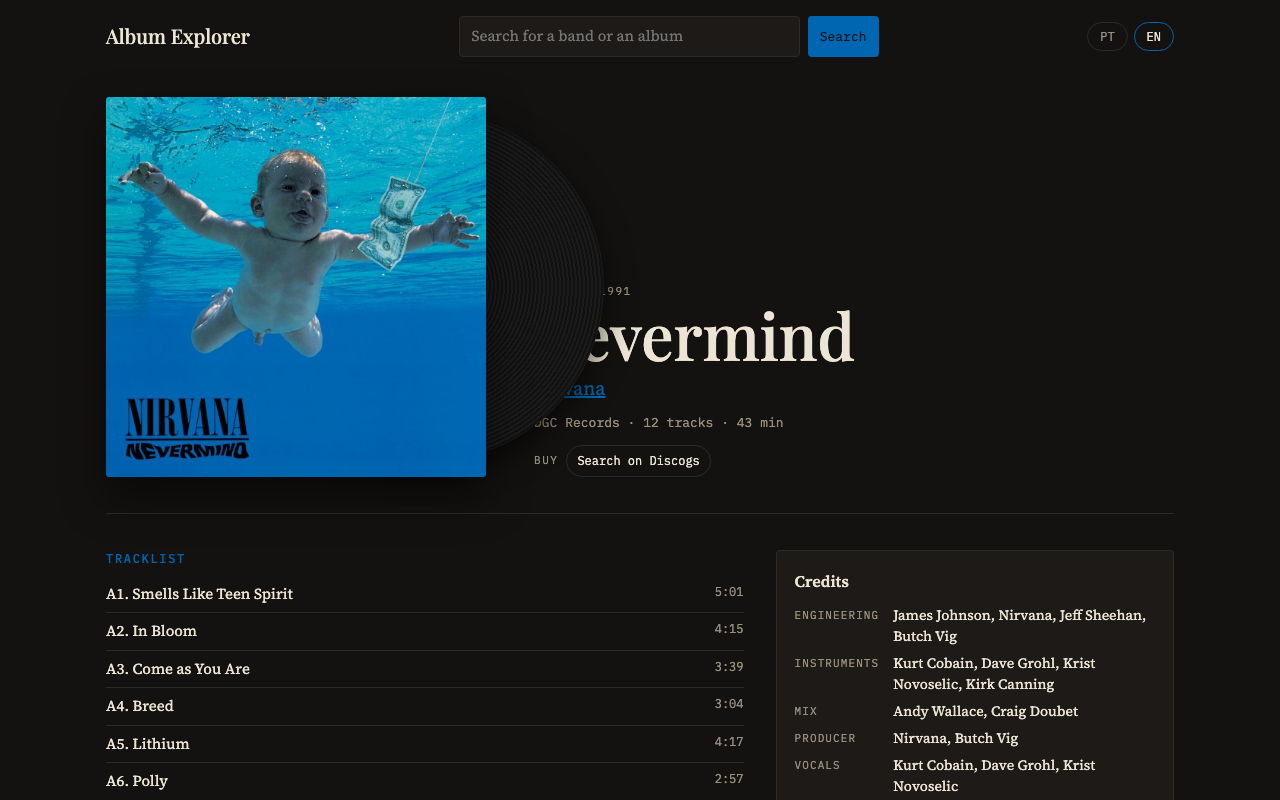
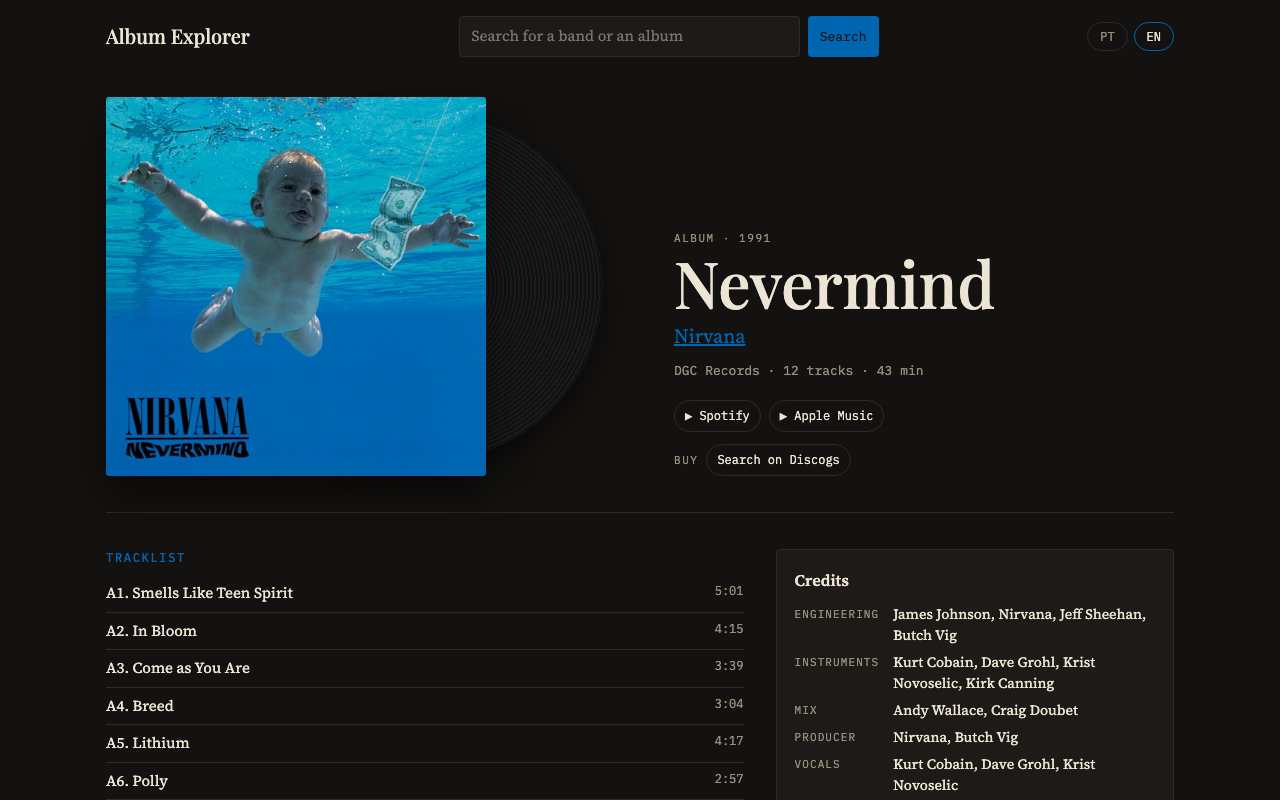
chore: refresh screenshots, check up to five digital releases for streaming links

diff --git a/tests/catalog/test_links.py b/tests/catalog/test_links.py
@@ -107,4 +107,4 @@ def test_streaming_links_come_from_digital_releases_not_the_cassette_reference(i
     import_album_links(album)
     assert sorted(album.links.values_list("service", flat=True)) == ["apple_music", "spotify"]
     assert calls == [str(first.mbid)]  # stopped as soon as Spotify and Apple Music were covered
-    assert len(calls) <= 3
+    assert len(calls) <= 5

diff --git a/catalog/services/links.py b/catalog/services/links.py
@@ -48,7 +48,7 @@ def _classified(relations) -> dict[str, tuple[str, str]]:
     return found
 
 
-MAX_STREAMING_RELEASES = 3
+MAX_STREAMING_RELEASES = 5
 
 
 def _streaming_candidates(album: Album) -> list:
